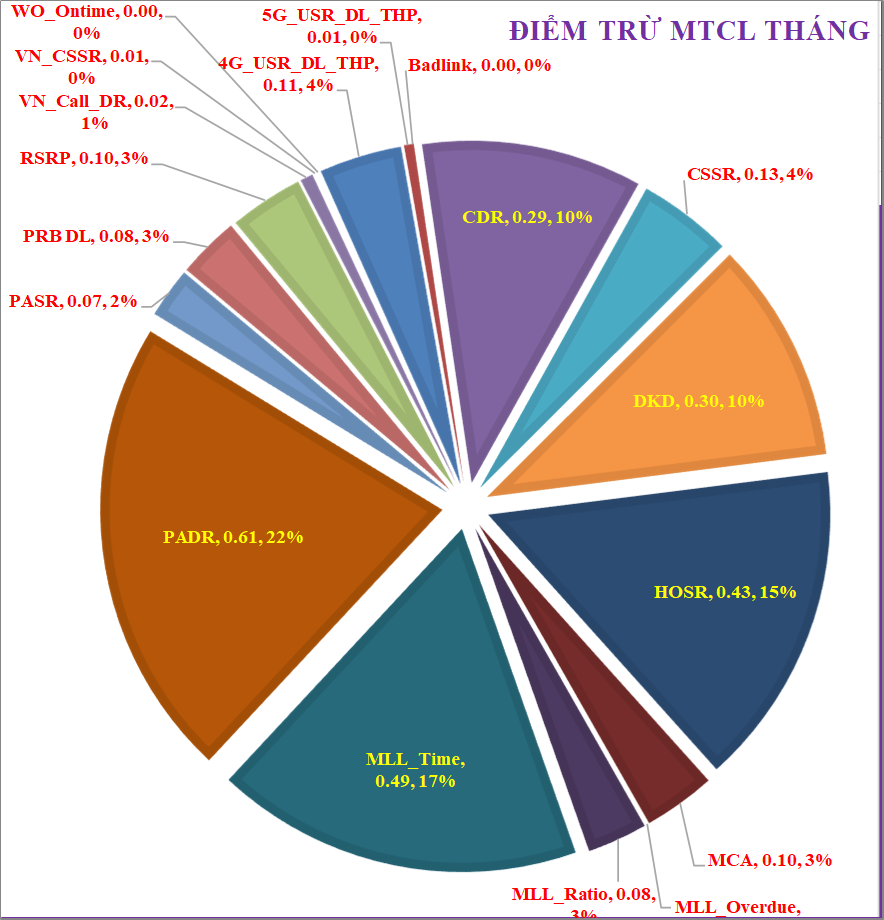
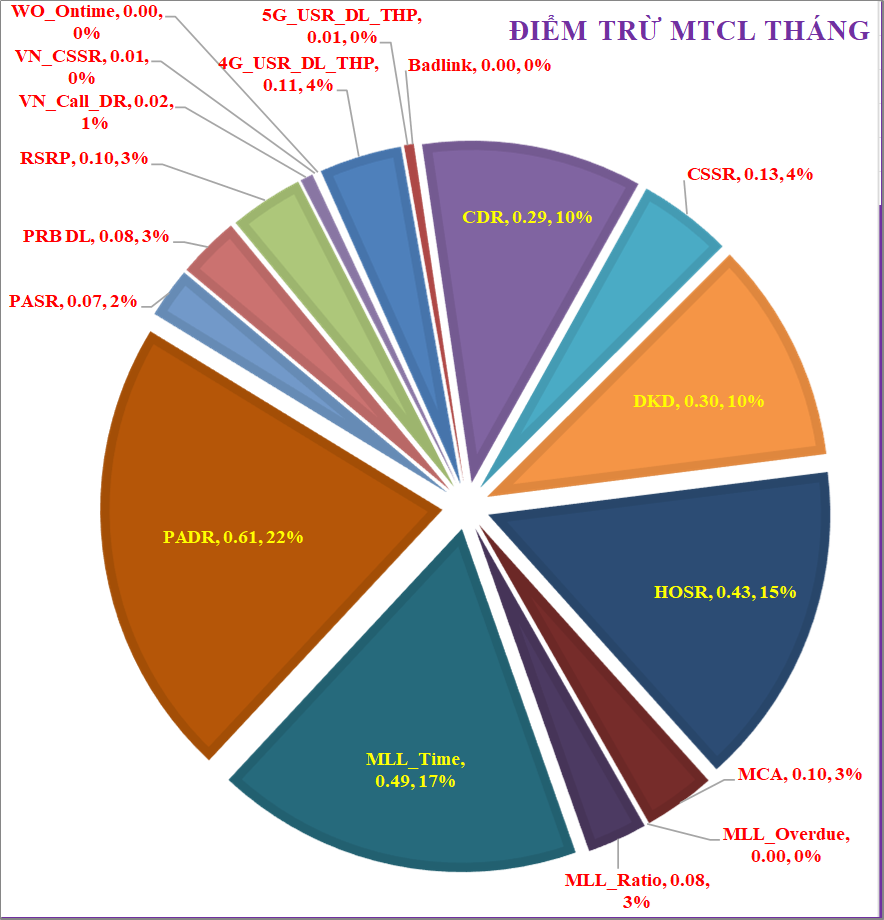
Final Polish & Auto Hide Buttons

diff --git a/index.html b/index.html
@@ -19,23 +19,23 @@
     <div class='page'>
         <div class='header'>
             <h1>GIA LAI NETWORK QUALITY REPORT</h1>
-            <p class='time'>Last updated: 18/10/2026 11:25:16</p>
+            <p class='time'>Last updated: 18/10/2026 11:28:00</p>
         </div>
         <!-- 1. Top Chart (U2:AF34) -->
-        <img src='img1.png?v=112516'>
+        <img src='img1.png?v=112800'>
         <!-- 2. Table 1 (A2:O25) -->
-        <img src='img2.png?v=112516'>
+        <img src='img2.png?v=112800'>
         <!-- 3. Table 2 (C28:L42) -->
-        <img src='img3.png?v=112516'>
+        <img src='img3.png?v=112800'>
         <!-- 4 & 5. Two Pies Side-by-Side (Q5:T34 & Q35:T61) -->
         <div class='row'>
-            <img src='img4.png?v=112516' class='half'>
-            <img src='img5.png?v=112516' class='half'>
+            <img src='img4.png?v=112800' class='half'>
+            <img src='img5.png?v=112800' class='half'>
         </div>
         <!-- 6. Bottom Chart (U35:AH61) -->
-        <img src='img6.png?v=112516'>
-        <img src='img7.png?v=112516'>
-        <img src='img8.png?v=112516'>
+        <img src='img6.png?v=112800'>
+        <img src='img7.png?v=112800'>
+        <img src='img8.png?v=112800'>
     </div>
 </body>
 </html>
